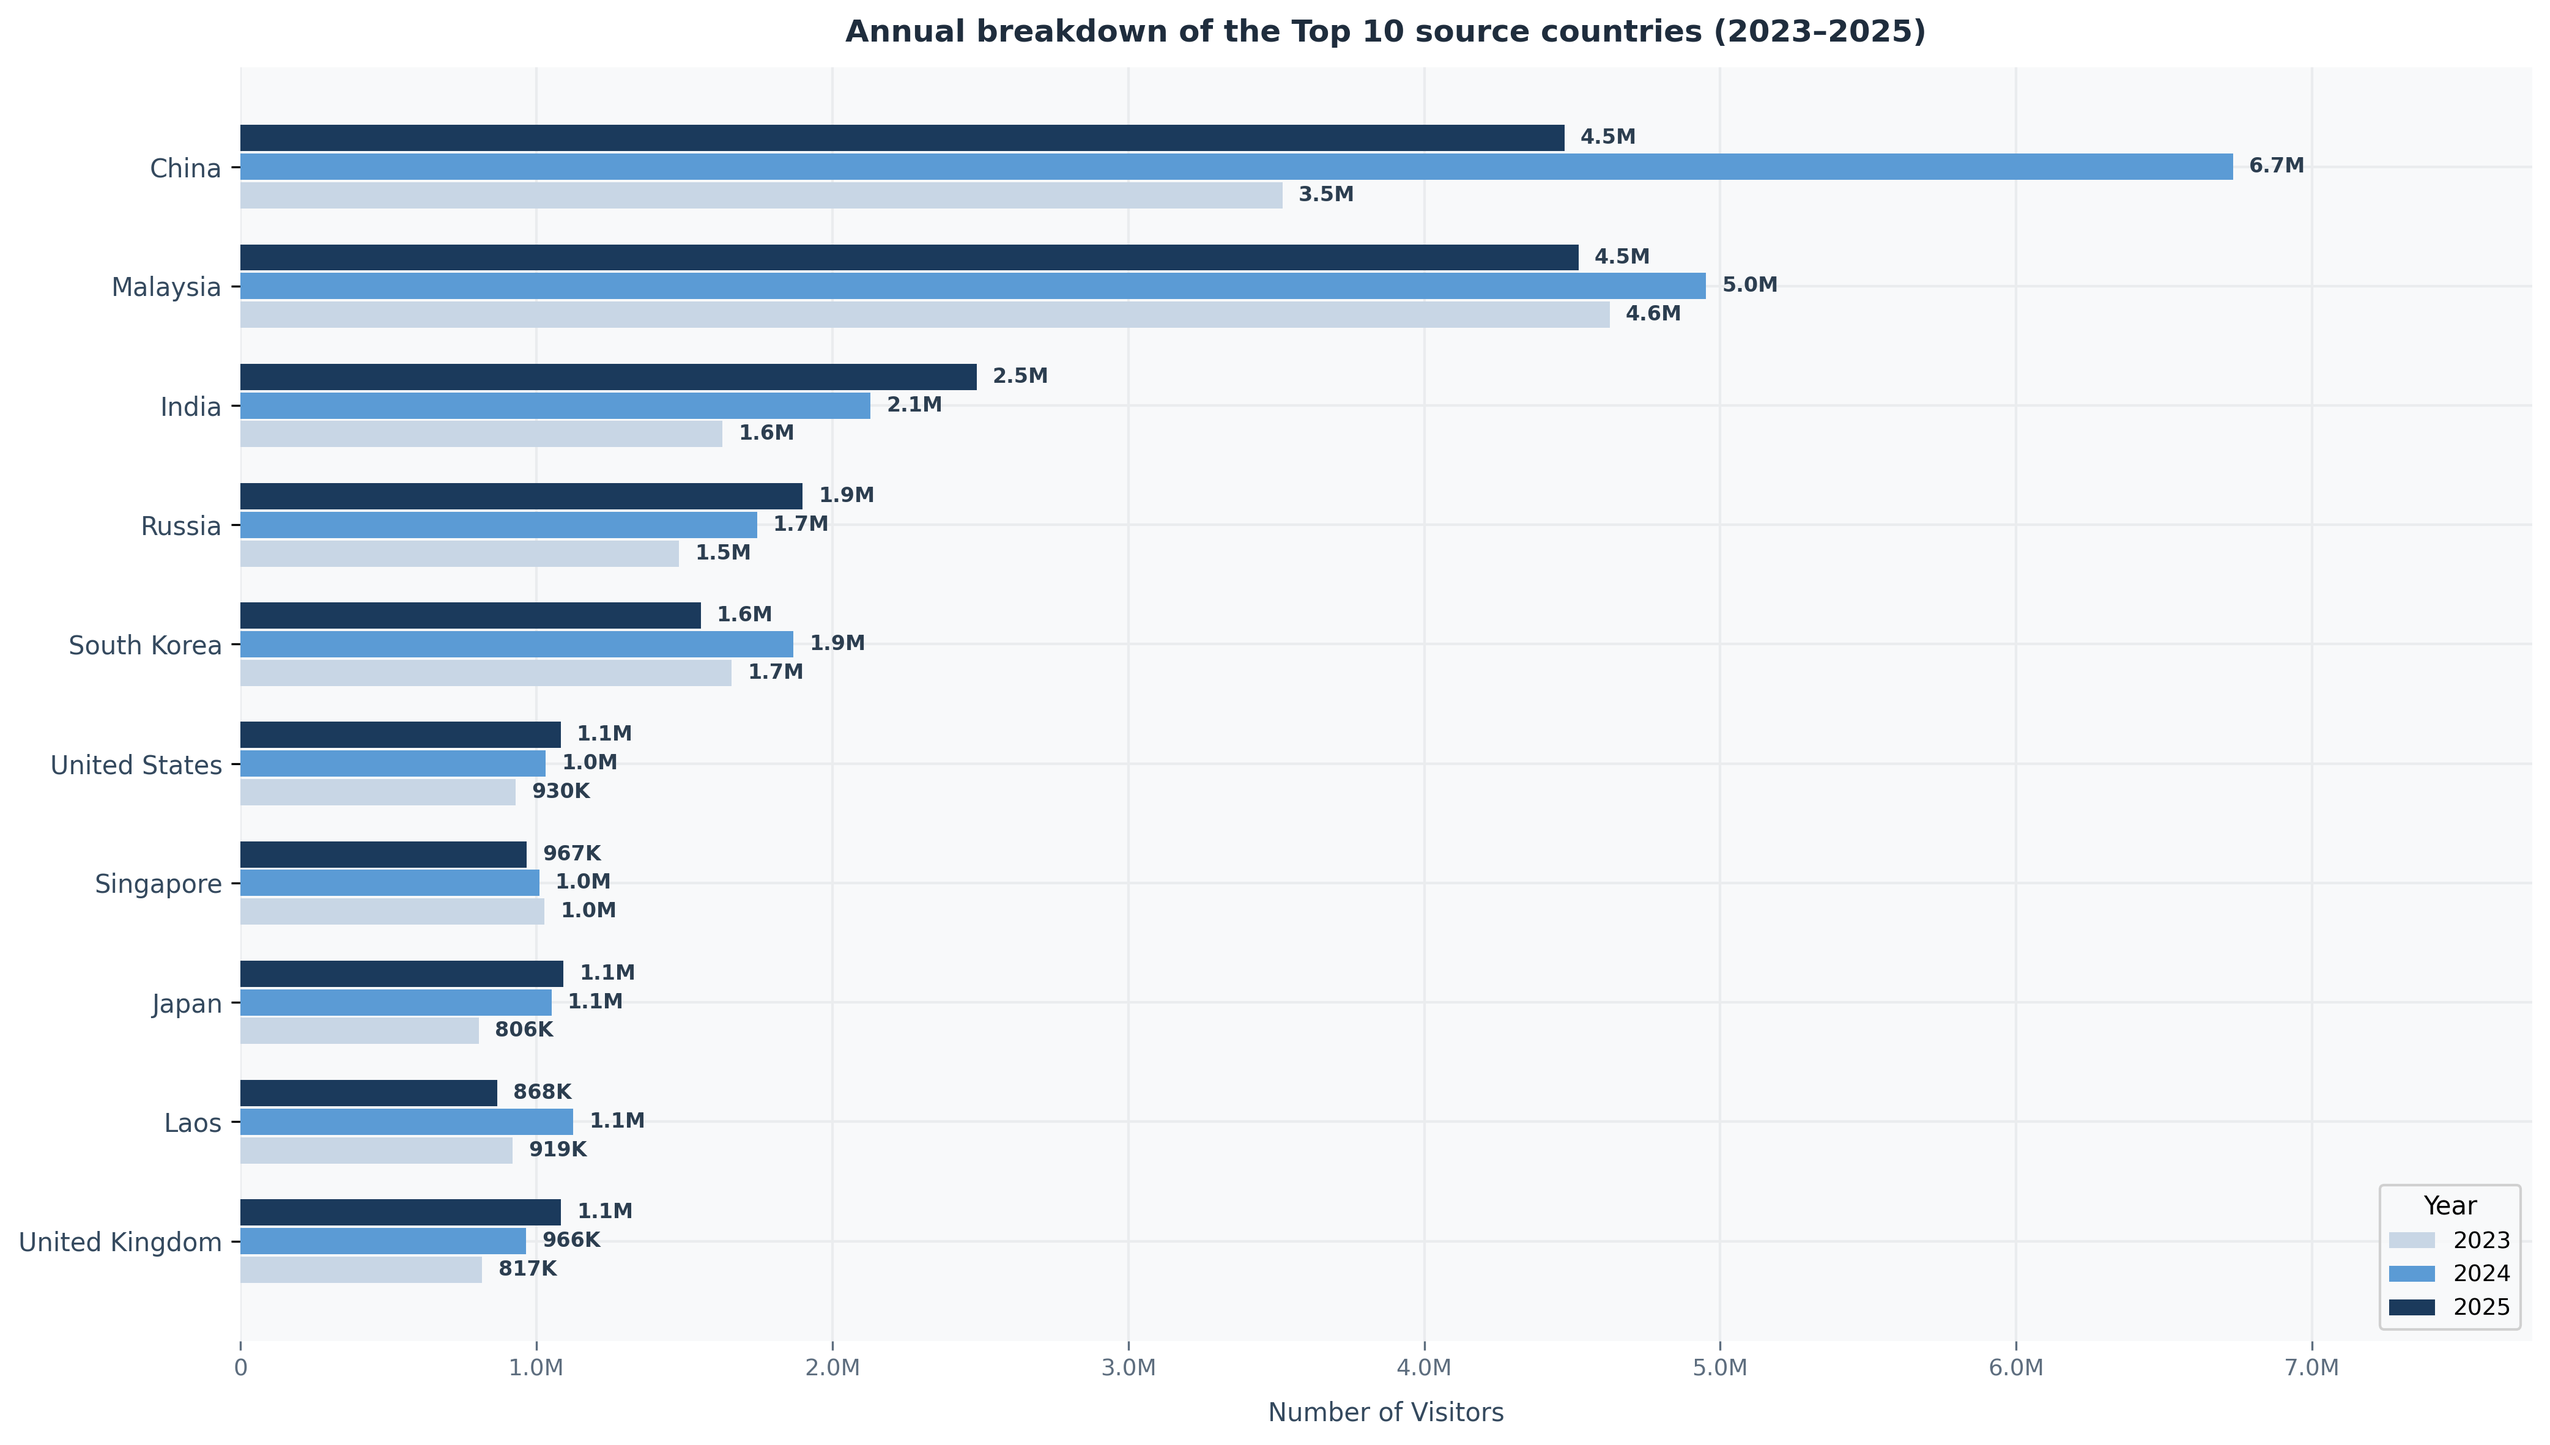
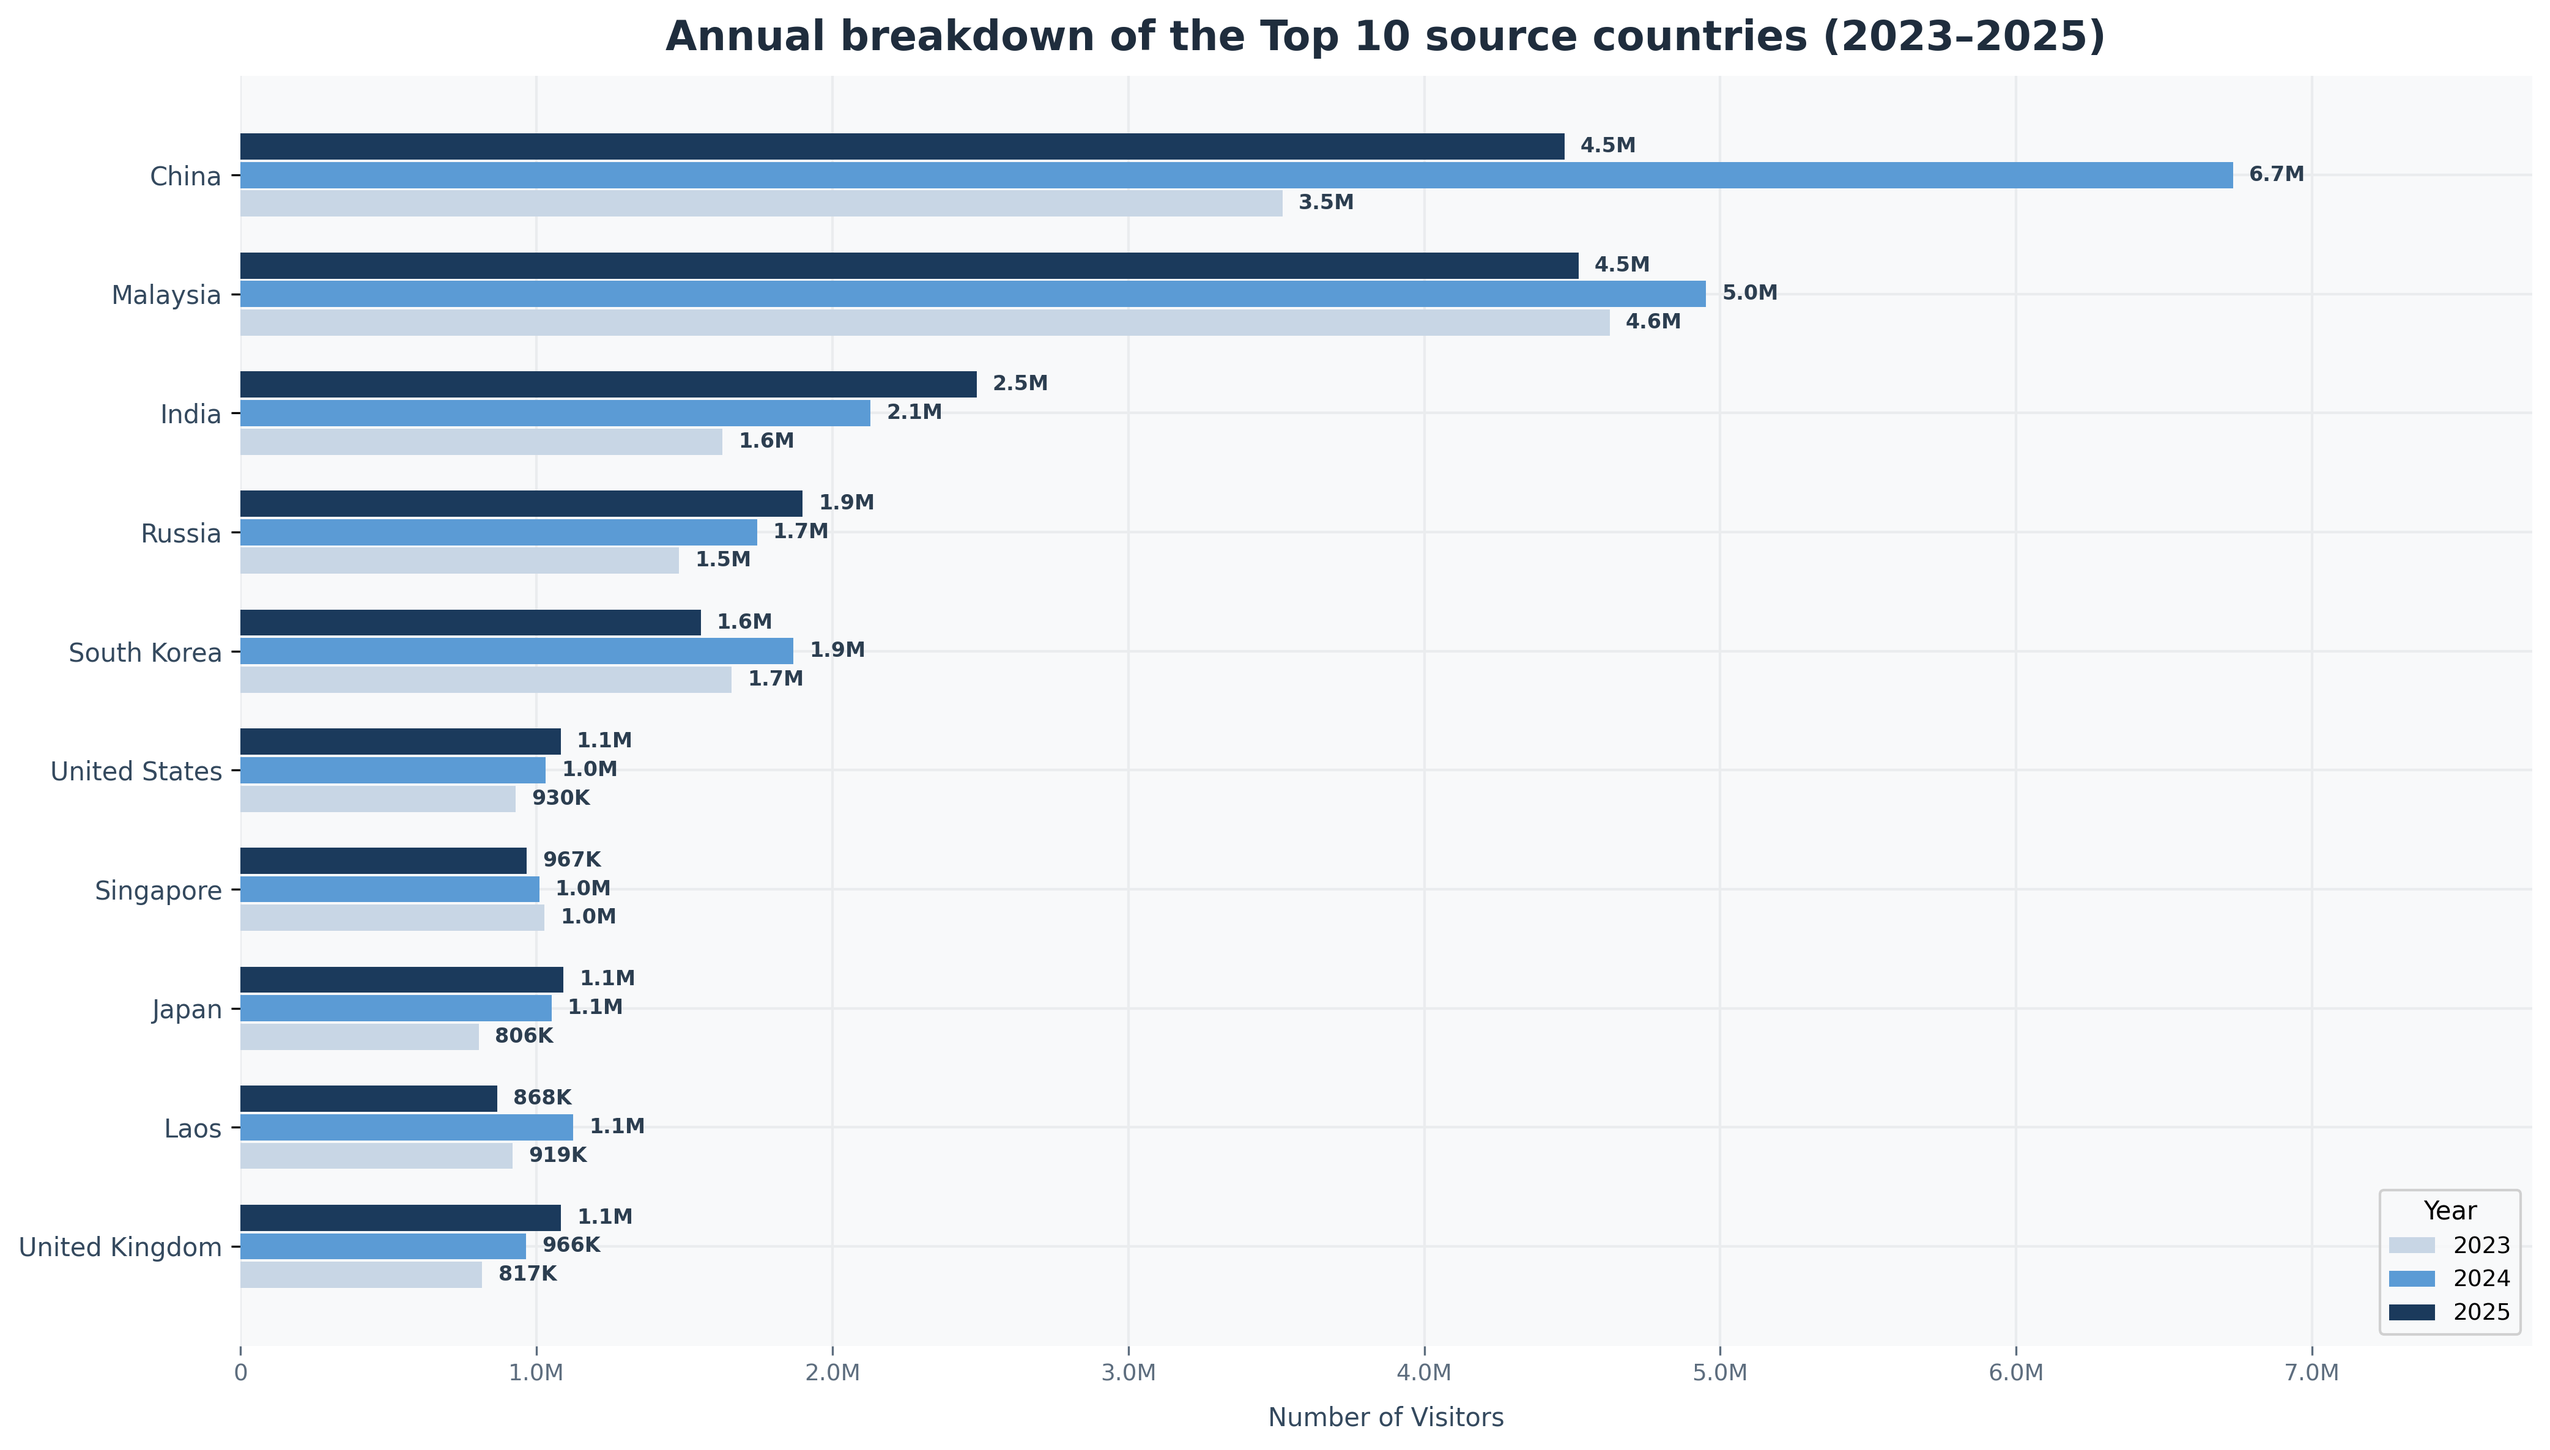
Update visualization scripts and figures

diff --git a/visualizations/09_A.py b/visualizations/09_A.py
@@ -110,7 +110,7 @@ ax.set_xlabel('Number of Visitors', fontsize=10, color='#34495E', labelpad=8)
 # Title
 ax.set_title(
     'Annual breakdown of the Top 10 source countries (2023–2025)',
-    fontsize=12,
+    fontsize=16,
     fontweight='bold',
     color='#1F2D3D',
     pad=10
